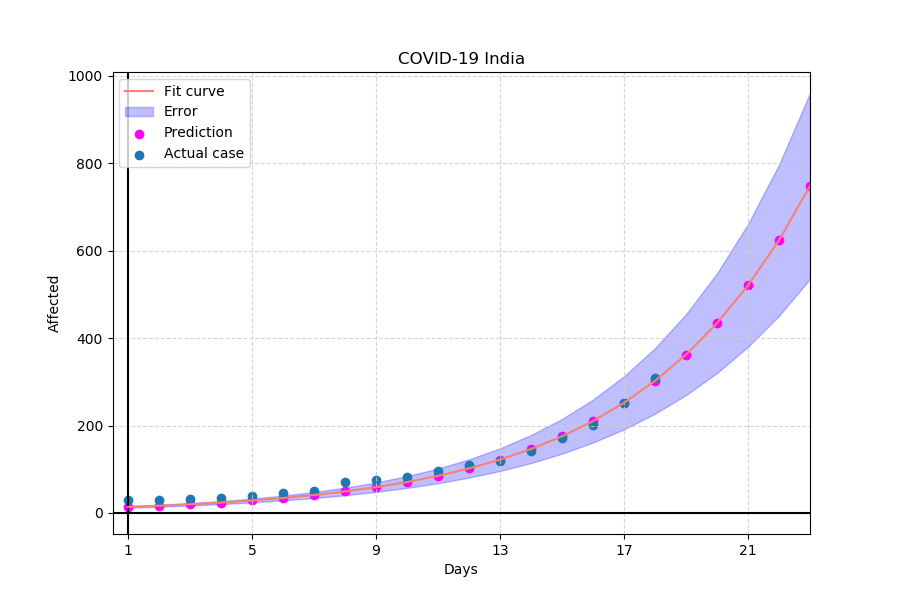
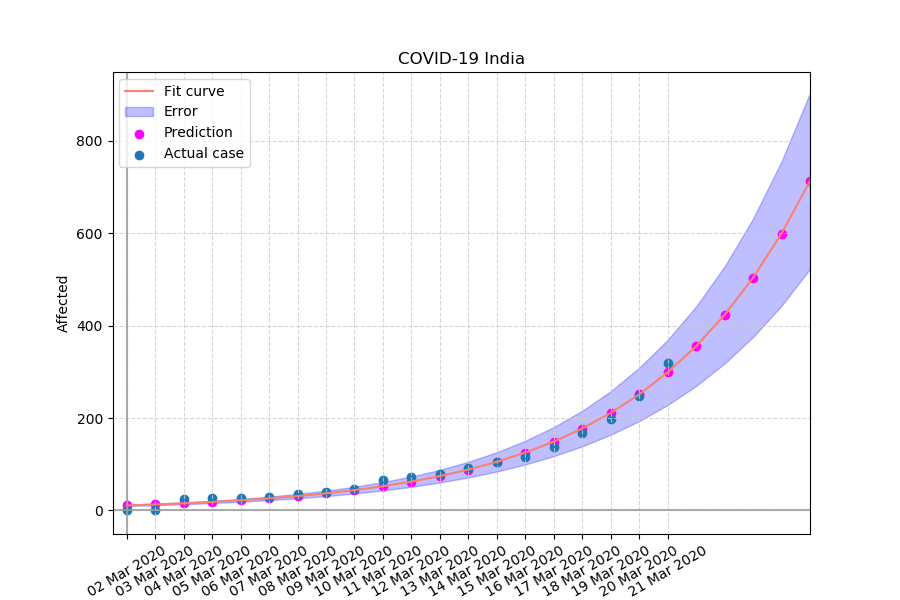
Implemented online data gathering

diff --git a/curvefit.py b/curvefit.py
@@ -4,47 +4,48 @@ import matplotlib.pyplot as plt
 import numpy as np
 from scipy.optimize import curve_fit
 
+from get_data import return_info
+
 fig, ax = plt.subplots(1,1, figsize=(9,6))
 next_ = 5
-no_days = 18
-days = np.arange(1, no_days + 1, 1)
-next_days = np.arange(1, no_days + next_ + 1, 1)
 
-y = np.array([29, 30, 31, 34, 39, 45, 50, 71, 76, 83, 95,
-        109, 120, 141, 171, 202, 252, 309])
+y, days, dates = return_info()
+next_days = np.append(days, days[-1] + np.arange(1, next_ + 1))
+
 
 def fit(x, a, tau):
     return a * np.exp(x/tau)
 
 def error(pcov):
     a_sd, tau_sd = np.sqrt(np.diag(pcov))
-    error_ar = np.ones(no_days + next_)
-    for i in range(no_days + next_):
+    error_ar = np.ones(days.size + next_)
+    for i in range(days.size + next_):
         error_ar[i] = fit(next_days[i], a, tau) * (a_sd/a + next_days[i] * tau_sd/ tau**2)
 
     return error_ar
 
-(a, tau), pcov = curve_fit( fit, days[10:], y[10:])
+(a, tau), pcov = curve_fit( fit, days, y)
 
 print("Prediction in the next {} days:\n".format(next_))
 for i in range(1, next_+1):
-    print("Day {}: {}".format(no_days + i, int(a * np.exp((no_days + i)/tau))))
+    print("Day {}: {}".format(days[-1] + i, int(a * np.exp((days[-1] + i)/tau))))
 
 
 ax.set_title("COVID-19 India")
-ax.axhline(color='black')
-ax.axvline(1, color='black')
+ax.axhline(color='#999999', alpha=.8)
+ax.axvline(1, color='#999999', alpha=.8)
 ax.grid(True, linestyle="--", color='#cccccc', alpha=0.8)
 
 ax.fill_between(next_days, fit(next_days, a, tau) - error(pcov), 
                     fit(next_days, a, tau) + error(pcov), color="blue", alpha = 0.25, label="Error")
 ax.plot(next_days, a * np.exp(next_days/tau), color="salmon", label="Fit curve")
-ax.scatter(next_days, a * np.exp(next_days/tau), color="magenta", label="Prediction")
+ax.scatter(next_days, fit(next_days, a, tau), color="magenta", label="Prediction")
 ax.scatter(days, y, label="Actual case")
 
 ax.set_xlabel("Days")
-ax.set_xlim(0.5, no_days + next_)
-ax.set_xticks(np.arange(1, next_ + no_days +1 , 4))
+ax.set_xlim(0.5, days[-1] + next_)
+ax.set_xticks(days)
+ax.set_xticklabels(dates, rotation=30)
 ax.set_ylabel('Affected')
 
 ax.legend(loc=2)

diff --git a/get_data.py b/get_data.py
@@ -1,11 +1,19 @@
 import requests_html as req
 import pandas as pd
+import numpy as np
 
 session = req.HTMLSession()
 r = session.get("https://covidout.in")
 text = r.html.text
 
 data = text.split("\n")[-1][27:]
-df = pd.read_json(data)[['case_id', 'confirmed_on', 'discharged_on', 'state', 'status']]
-print(df.tail(10))
+main_data = pd.read_json(data)[4:]
+main_data['dayno'] = pd.to_datetime(main_data['confirmed_on']).dt.dayofyear
 
+def return_info():
+    numbers = np.cumsum(main_data.dayno.value_counts().sort_index().values)
+    dates = np.unique(main_data['confirmed_on'].values)
+    days = np.unique(main_data['dayno'].values - main_data['dayno'].values.min() + 1)
+    return numbers, days, dates
+
+return_info()

diff --git a/README.md b/README.md
@@ -1,4 +1,4 @@
 ### COVID-19 INDIA
-#### Updated 7.36 PM, 21st March, 2020
+#### Updated 11:15 PM, 21st March, 2020
 
 ![Image description](plot.png) 
